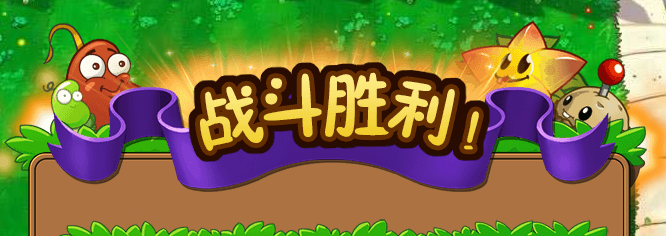
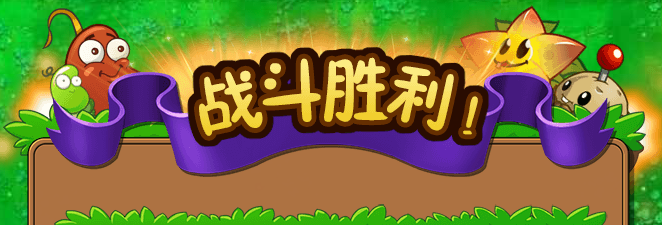
加上了开始界面选择菜单

diff --git a/bin/main.py b/bin/main.py
@@ -10,12 +10,12 @@ from src.Sun import Sun
 from src.WallNut import WallNut
 from src.surface import SurFace
 pygame.init()
-bg_size = (1200,600)
+bg_size = (1300,760)
 #初始化音乐模块
 pygame.mixer.init()
 #加载音乐
 pygame.mixer.music.load("../material/music/18 - Crazy Dave IN-GAME.mp3")
-screen = pygame.display.set_mode((1200,600))
+screen = pygame.display.set_mode(bg_size)
 #游戏结束界面
 gameover_image = pygame.image.load("../material/images/GameOver.png")
 pygame.display.set_caption("植物大战僵尸")
@@ -26,7 +26,8 @@ wallNut_seed = pygame.image.load("../material/images/WallNut.gif")
 peashooter_seed = pygame.image.load("../material/images/Peashooter.gif")
 background = pygame.image.load(background_image_path).convert()
 sunback = pygame.image.load(sunback_imgage_path).convert()
-
+#暂停按钮
+pause = pygame.image.load("../material/images/game_pause_nor.png")
 #太阳花Surface
 sunflower_surface = pygame.image.load("../material/images/SunFlower_00.png")
 #坚果Surface
@@ -68,15 +69,17 @@ def start():
     screen.blit(starting.image6, (13, 20))
     while running:
             for event in pygame.event.get():
+
                 if event.type == pygame.QUIT:
                     sys.exit()
                 if event.type == pygame.MOUSEBUTTONDOWN:
                     x, y = pygame.mouse.get_pos()
-                    if (x > 1100 and x < 1150) and (y > 400 and y < 550):
+                    print(x,y)
+                    if (x > 1146 and x < 1265) and (y > 590 and y < 690):
                         sys.exit()
-                    if (x > 950 and x < 1050) and (y > 420 and y < 525):
+                    if (x > 1046 and x < 1120) and (y > 620 and y < 700):
                         screen.blit(starting.image7, (20,20))
-                    if (x > 700 and x < 1000) and (y > 58 and y < 155):
+                    if (x > 700 and x < 1000) and (y > 50 and y < 250):
                         for i in range(100):
                             if i % 20:
                                 screen.blit(starting.image1, starting.rect)
@@ -84,32 +87,6 @@ def start():
                                 screen.blit(starting.image2, starting.rect)
                         main()
 
-
-                        # delay = 0
-                        # while True:
-                        #     delay += 1
-                        #     if delay == 2:
-                        #        main()
-                        #     if delay % 2==0:
-                        #        screen.blit(starting.image1, starting.rect)
-                        #     if delay%2==1:
-                        #        screen.blit(starting.image2, starting.rect)
-                        # main()
-                        # delay = 60
-                        # while True:
-                        #     delay -= 1
-                        #     # if delay == 0:
-                        #     #     delay = 60
-                        #     if delay % 3:
-                        #         switch_image = not switch_image
-                        #
-                        #     if switch_image:
-                        #         screen.blit(starting.image1, starting.rect)
-                        #     else:
-                        #         screen.blit(starting.image2, starting.rect)
-                        #     for event in pygame.event.get():
-                        #         if event.type == pygame.QUIT:
-                        #             sys.exit()
             pygame.display.update()
 
 
@@ -165,6 +142,25 @@ def main():
         clock.tick(15)
         if not game_over:
             for event in pygame.event.get():
+                # 暂停处理
+                if event.type == pygame.KEYDOWN:
+                    if event.key == pygame.K_SPACE:
+                        # global running
+                        running = False
+                        while True:
+                            # screen.blit(pause,(100,100))
+                            for event in pygame.event.get():
+                                if event.type == pygame.QUIT:
+                                    sys.exit()
+                                if event.type == pygame.KEYDOWN:
+                                    if event.key == pygame.K_SPACE:
+                                        running = True
+                                        break
+                                        # print(running)
+                            if running:
+                                break
+                            screen.blit(pause, (650, 380))
+                            pygame.display.update()
                 if event.type == pygame.QUIT:
                     sys.exit()
                 if event.type == MOUSEBUTTONDOWN:
@@ -190,7 +186,7 @@ def main():
                             choose = 2
                         elif x > 430 and x <= 480 and y >= 0 and y <= 70 and int(text) >= 100:
                             choose = 3
-                        elif x > 250 and x < 1200 and y > 70 and y < 600:
+                        elif x > 250 and x < 1400 and y > 70 and y < 800:
                             if choose == 1:
                                 print(x,y)
                                 #绘制Money文本
@@ -199,7 +195,7 @@ def main():
                                 suns_number_surface = suns_font.render(text, True, (0, 0, 0), None)
                                 screen.blit(suns_number_surface, (280, 60))
                                 # 创建太阳花对象
-                                sunflower = SunFlower((x // 80 * 80, y // 100 * 100), bg_size)
+                                sunflower = SunFlower((x // 100 * 100, y // 120 * 120), bg_size)
                                 seeds.add(sunflower)
                                 sunFlowers.add(sunflower)
                                 choose = 0
@@ -211,7 +207,7 @@ def main():
                                 suns_number_surface = suns_font.render(text, True, (0, 0, 0), None)
                                 screen.blit(suns_number_surface, (280, 60))
                                 #创建坚果对象
-                                wallnut = WallNut((x // 80 * 80 ,y // 100 * 100),bg_size)
+                                wallnut = WallNut((x // 100 * 100 ,y // 120 * 120),bg_size)
                                 seeds.add(wallnut)
                                 wallNuts.add(wallnut)
                                 choose = 0
@@ -223,7 +219,7 @@ def main():
                                 suns_number_surface = suns_font.render(text, True, (0, 0, 0), None)
                                 screen.blit(suns_number_surface, (280, 60))
                                 #创建豌豆射手对象
-                                peashooter = Peashooter((x // 80 * 80,y // 100 * 100),bg_size)
+                                peashooter = Peashooter((x // 100 * 100,y // 120 * 120),bg_size)
                                 seeds.add(peashooter)
                                 peashooters.add(peashooter)
                                 choose = 0
@@ -290,9 +286,10 @@ def main():
                         if flagZombie.energy <= 0:
                             screen.blit(flagZombie.dying_images[9], flagZombie.rect)
                             flagZombie.kill()
+                            flagZombies.remove(flagZombie)
                             dead_zombie_total += 1
             #计算击杀的僵尸总数
-            if dead_zombie_total >= 2:
+            if dead_zombie_total >= 10:
                 game_over = True
                 win = True
                 # pygame.mixer.music.pause()
@@ -302,12 +299,13 @@ def main():
                 #         sys.exit()
             # 绘制坚果
             for wallnut in wallNuts:
+                print(wallnut.energy)
                 if wallnut.active and not wallnut.isMeetZombie and not wallnut.isMeetFlagZombie and wallnut.energy == 10:
                     screen.blit(wallnut.images[delay % 13], wallnut.rect)
                 elif wallnut.isMeetZombie and wallnut.isMeetFlagZombie and wallnut.energy == 0:
                     wallnut.kill()
                     wallNuts.remove(wallnut)
-                elif wallnut.isMeetZombie and wallnut.isMeetFlagZombie and wallnut.energy != 0:
+                elif (wallnut.isMeetZombie or wallnut.isMeetFlagZombie) and wallnut.energy > 0:
                     screen.blit(wallnut.images[delay % 13], wallnut.rect)
             # 僵尸和坚果碰撞
             for zombie in zombies:
@@ -399,6 +397,9 @@ def main():
                 elif (sunflower.isMeetZombie or sunflower.isMeetFlagZombie) and sunflower.energy == 0:
                     sunflower.kill()
                     sunflower.remove()
+                elif (sunflower.isMeetZombie or sunflower.isMeetFlagZombie) and sunflower.energy > 0 and sunflower.energy < 10:
+                    screen.blit(sunflower.images[delay % 13], sunflower.rect)
+
             # 僵尸和太阳花碰撞
             for zombie in zombies:
                 if not zombie.active:
@@ -458,7 +459,7 @@ def main():
             print(outof_zombie_total)
             #绘制僵尸
             for zombie in zombies:
-                if zombie.active and zombie.energy > 8 and not zombie.isMeetWallNut and not zombie.isMeetPeashooter\
+                if zombie.active and zombie.energy > 0 and not zombie.isMeetWallNut and not zombie.isMeetPeashooter\
                         and not zombie.isMeetSunFlower:
                     screen.blit(zombie.images[delay % 22],zombie.rect)
                     zombie.move()
@@ -466,7 +467,7 @@ def main():
                     screen.blit(zombie.attack_images[delay % 21], zombie.rect)
             # 绘制旗帜僵尸
             for flagZombie in flagZombies:
-                if flagZombie.active and flagZombie.energy > 8 and not flagZombie.isMeetWallNut and not flagZombie.isMeetPeashooter\
+                if flagZombie.active and flagZombie.energy > 0 and not flagZombie.isMeetWallNut and not flagZombie.isMeetPeashooter\
                         and not flagZombie.isMeetSunFlower:
                     screen.blit(flagZombie.images[delay % 12], flagZombie.rect)
                     flagZombie.move()
@@ -491,7 +492,7 @@ def main():
                     sys.exit()
         elif game_over and  win:
             pygame.mixer.music.pause()
-            screen.blit(win_surface, (300, 100))
+            screen.blit(win_surface, (368, 200))
             for event in pygame.event.get():
                 if event.type == pygame.QUIT:
                     sys.exit()

diff --git a/src/FlagZombie.py b/src/FlagZombie.py
@@ -1,7 +1,7 @@
 '''旗帜僵尸'''
 import pygame
 from random import randint
-
+from random import randrange
 class FlagZombie(pygame.sprite.Sprite):
     energy = 40
     def __init__(self,bg_size):
@@ -13,7 +13,7 @@ class FlagZombie(pygame.sprite.Sprite):
         # 获取图片位置
         self.rect = self.image.get_rect()
         # 定义僵尸的初始化位置
-        self.rect.left, self.rect.top = randint(900,1200),randint(0,400)
+        self.rect.left, self.rect.top = randint(1100,1200),210 + randrange(0,3) * 100
         # 获取僵尸图片的掩模，用来进行精准碰撞检测
         self.mask = pygame.mask.from_surface(self.image)
         # 设置僵尸的生命状态  True活的，false死的

diff --git a/src/Zombie.py b/src/Zombie.py
@@ -15,7 +15,7 @@ class Zombie(pygame.sprite.Sprite):
         # 获取图片位置
         self.rect = self.image.get_rect()
         # 定义僵尸的初始化位置
-        self.rect.left, self.rect.top = randint(1100,1200),150 + randrange(0,4) * 90
+        self.rect.left, self.rect.top = randint(1100,1200),210 + randrange(0,3) * 100
         # 获取僵尸图片的掩模，用来进行精准碰撞检测
         self.mask = pygame.mask.from_surface(self.image)
         # 设置僵尸的生命状态  True活的，false死的
